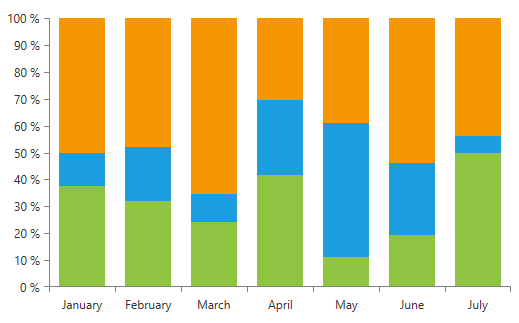
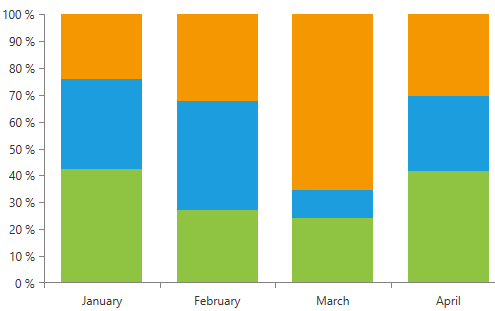
Updated CombineMode article. Included StackGroupKey.

diff --git a/controls/radchartview/features/combinemode.md b/controls/radchartview/features/combinemode.md
@@ -10,11 +10,11 @@ position: 9
 
 # Combine Mode
 
-Categorical series in RadChartView have mechanism which can be used for combining data points that reside in different series but have the same category. This mechanism can be triggered by setting the __CombineMode__ property of the series. It is an enumeration and it allows the following values: __None, Cluster, Stack, Stack100__.
+Categorical series in RadChartView have a mechanism which can be used for combining data points that reside in different series but have the same category. This mechanism can be triggered by setting the __CombineMode__ property of the series. It is an enumeration and it allows the following values: __None, Cluster, Stack, Stack100__.
 
 >tip Categorical series which supports this mechanism are: __AreaSeries, BarSeries, LineSeries, PointSeries, RangeBarSeries__.
 
-#### __[XAML] Example 1: Setting CombineMode property__
+#### __[XAML] Example 1: Setting the CombineMode property__
 	{{region xaml-radchartview-features-combinemode_0}}
 		<telerik:RadCartesianChart Palette="Windows8">
             <telerik:RadCartesianChart.HorizontalAxis>
@@ -23,55 +23,101 @@ Categorical series in RadChartView have mechanism which can be used for combinin
             <telerik:RadCartesianChart.VerticalAxis>
                 <telerik:LinearAxis />
             </telerik:RadCartesianChart.VerticalAxis>
-            <telerik:RadCartesianChart.Series>                
-                <telerik:BarSeries CombineMode="Cluster">
+            <telerik:RadCartesianChart.Series>
+                <telerik:BarSeries CombineMode="None">
                     <telerik:BarSeries.DataPoints>
-                        <telerik:CategoricalDataPoint Category="January" Value="6" />
-                        <telerik:CategoricalDataPoint Category="February" Value="8" />
+                        <telerik:CategoricalDataPoint Category="January" Value="14" />
+                        <telerik:CategoricalDataPoint Category="February" Value="10" />
                         <telerik:CategoricalDataPoint Category="March" Value="7" />
                         <telerik:CategoricalDataPoint Category="April" Value="15" />
-                        <telerik:CategoricalDataPoint Category="May" Value="2" />
-                        <telerik:CategoricalDataPoint Category="June" Value="5" />
-                        <telerik:CategoricalDataPoint Category="July" Value="8" />
                     </telerik:BarSeries.DataPoints>
                 </telerik:BarSeries>
-                <telerik:BarSeries CombineMode="Cluster">
+                <telerik:BarSeries CombineMode="None">
                     <telerik:BarSeries.DataPoints>
-                        <telerik:CategoricalDataPoint Category="January" Value="2" />
-                        <telerik:CategoricalDataPoint Category="February" Value="5" />
+                        <telerik:CategoricalDataPoint Category="January" Value="11" />
+                        <telerik:CategoricalDataPoint Category="February" Value="15" />
                         <telerik:CategoricalDataPoint Category="March" Value="3" />
                         <telerik:CategoricalDataPoint Category="April" Value="10" />
-                        <telerik:CategoricalDataPoint Category="May" Value="9" />
-                        <telerik:CategoricalDataPoint Category="June" Value="7" />
-                        <telerik:CategoricalDataPoint Category="July" Value="1" />
                     </telerik:BarSeries.DataPoints>
                 </telerik:BarSeries>
-                <telerik:BarSeries CombineMode="Cluster">
+                <telerik:BarSeries CombineMode="None">
                     <telerik:BarSeries.DataPoints>
                         <telerik:CategoricalDataPoint Category="January" Value="8" />
                         <telerik:CategoricalDataPoint Category="February" Value="12" />
                         <telerik:CategoricalDataPoint Category="March" Value="19" />
                         <telerik:CategoricalDataPoint Category="April" Value="11" />
-                        <telerik:CategoricalDataPoint Category="May" Value="7" />
-                        <telerik:CategoricalDataPoint Category="June" Value="14" />
-                        <telerik:CategoricalDataPoint Category="July" Value="7" />
                     </telerik:BarSeries.DataPoints>
                 </telerik:BarSeries>
             </telerik:RadCartesianChart.Series>
         </telerik:RadCartesianChart>
 	{{endregion}}
 
-* __None__ / __Cluster__: In this mode each series will be plotted independently of each other, so that they are no overlapping.
+<!--- --->
 
-	![](images/radchartview-features-combinemode-none-cluster.png)
+ * __None__: In this mode each series will be plotted on top of each other. The series that is defined last will be rendered on top. You can change that by setting the **ZIndex** property of the series.
+
+ #### __Figure 1: CombineMode None__
+ ![RadChartView series with CombineMode Cluster](images/radchartview-features-combinemode-none.PNG)
+
+ * __Cluster__: In this mode each series will be plotted independently of each other, so that they are not overlapping.
+
+ #### __Figure 2: CombineMode Cluster__
+ ![RadChartView series with CombineMode Cluster](images/radchartview-features-combinemode-cluster.PNG)
 	
-* __Stack__: In this mode all series form stacks. The points of all series are placed on top of each other. The drawing of the next point will start from the value of the previous one. 
+ * __Stack__: In this mode all series form stacks. The points of all series are placed on top of each other. The drawing of the next point will start from the value of the previous one. 
 
-	![](images/radchartview-features-combinemode-stack.png)
+ #### __Figure 3: CombineMode Stack__
+ ![RadChartView series with CombineMode Stack](images/radchartview-features-combinemode-stack.png)
 	
-* __Stack100__: When this mode is set all series form stacks that occupy 100% of the plot area. It shows the combined contribution of values as percentages where the combined total for each category is 100 percent. It's good to use it when the relationship between values in a category is more significant than the amounts.
+ * __Stack100__: When this mode is set all series form stacks that occupy 100% of the plot area. It shows the combined contribution of values as percentages where the combined total for each category is 100 percent. It's good to use it when the relationship between values in a category is more significant than the amounts.
 
-	![](images/radchartview-features-combinemode-stack100.png)
+ #### __Figure 4: CombineMode Stack100__
+ ![RadChartView series with CombineMode Stack100](images/radchartview-features-combinemode-stack100.png)
+
+## Utilizing the StackGroupKey property
+
+If the **CombineMode** property of the series is either **Stack** or **Stack100**, the **StackGroupKey** property of the series can be set in order to define in which stack group it will be included. **Example 2** demonstrates this property.
+
+#### __[XAML] Example 2: Setting the StackGroupKey property__
+	{{region xaml-radchartview-features-combinemode_1}}
+		 <telerik:RadCartesianChart Palette="Windows8">
+            <telerik:RadCartesianChart.HorizontalAxis>
+                <telerik:CategoricalAxis />
+            </telerik:RadCartesianChart.HorizontalAxis>
+            <telerik:RadCartesianChart.VerticalAxis>
+                <telerik:LinearAxis />
+            </telerik:RadCartesianChart.VerticalAxis>
+            <telerik:RadCartesianChart.Series>
+                <telerik:BarSeries CombineMode="Stack"  StackGroupKey="FirstStackGroup">
+                    <telerik:BarSeries.DataPoints>
+                        <telerik:CategoricalDataPoint Category="January" Value="14" />
+                        <telerik:CategoricalDataPoint Category="February" Value="10" />
+                        <telerik:CategoricalDataPoint Category="March" Value="7" />
+                        <telerik:CategoricalDataPoint Category="April" Value="15" />
+                    </telerik:BarSeries.DataPoints>
+                </telerik:BarSeries>
+                <telerik:BarSeries CombineMode="Stack" StackGroupKey="FirstStackGroup">
+                    <telerik:BarSeries.DataPoints>
+                        <telerik:CategoricalDataPoint Category="January" Value="11" />
+                        <telerik:CategoricalDataPoint Category="February" Value="15" />
+                        <telerik:CategoricalDataPoint Category="March" Value="3" />
+                        <telerik:CategoricalDataPoint Category="April" Value="10" />
+                    </telerik:BarSeries.DataPoints>
+                </telerik:BarSeries>
+                <telerik:BarSeries CombineMode="Stack" StackGroupKey="SecondStackGroup" >
+                    <telerik:BarSeries.DataPoints>
+                        <telerik:CategoricalDataPoint Category="January" Value="8" />
+                        <telerik:CategoricalDataPoint Category="February" Value="12" />
+                        <telerik:CategoricalDataPoint Category="March" Value="19" />
+                        <telerik:CategoricalDataPoint Category="April" Value="11" />
+                    </telerik:BarSeries.DataPoints>
+                </telerik:BarSeries>
+            </telerik:RadCartesianChart.Series>
+        </telerik:RadCartesianChart>
+	{{endregion}}
+
+#### __Figure 5: Result from Example 2__
+![RadChartView series with CombineMode and StackGroupKey](images/radchartview-combinemode-stackgroupkey.png)
 
 ## See Also
 
